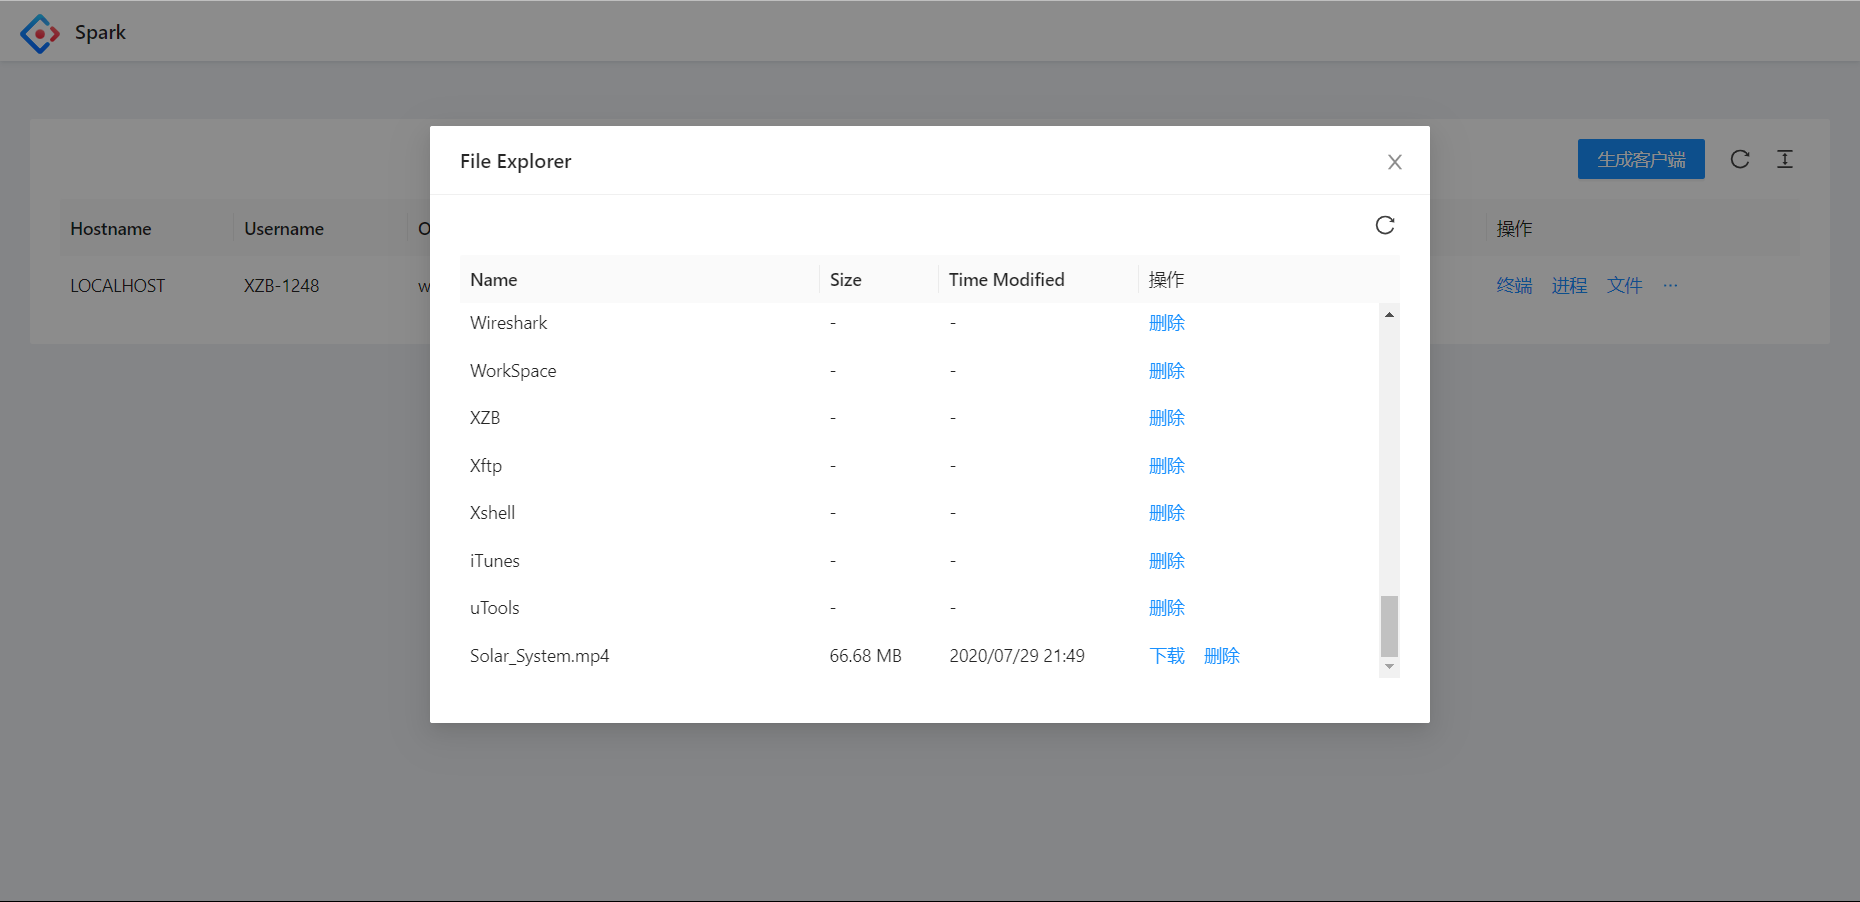
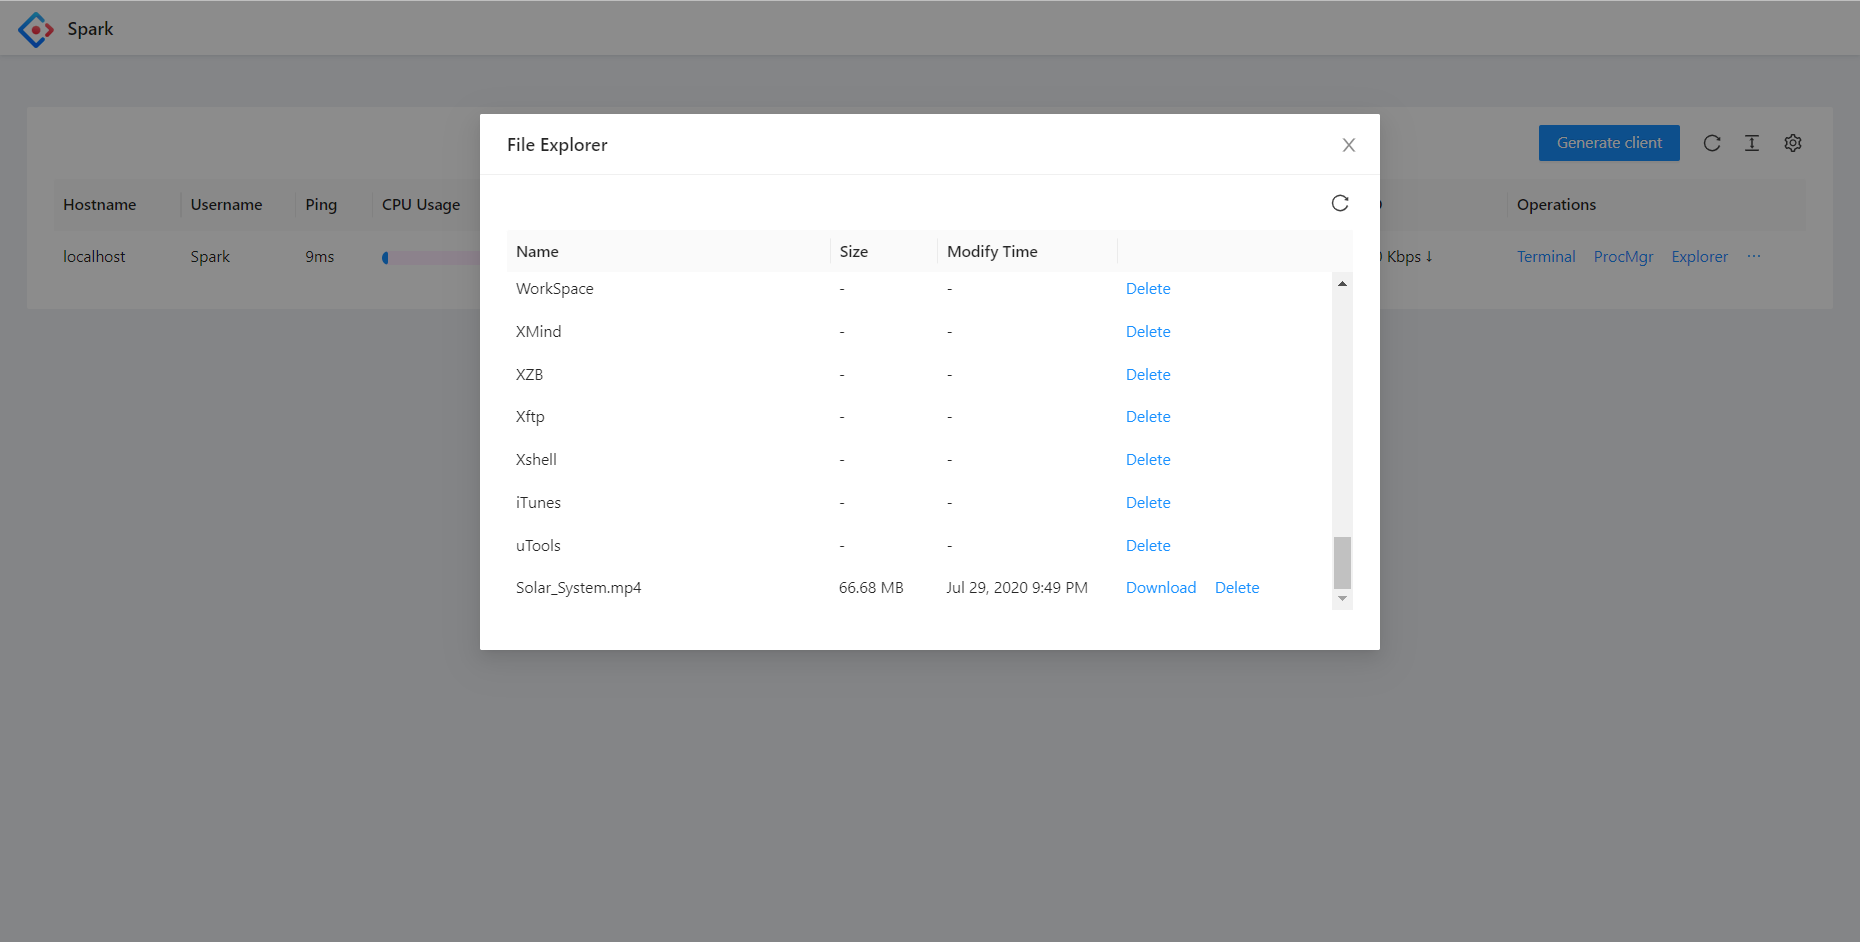
update i18n and README.md

diff --git a/web/src/utils/utils.js b/web/src/utils/utils.js
@@ -36,7 +36,7 @@ function tsToTime(ts) {
     let hours = Math.floor(ts / 3600);
     ts %= 3600;
     let minutes = Math.floor(ts / 60);
-    return `${String(hours) + i18n.t('hours') + String(minutes) + i18n.t('minutes')}`;
+    return `${String(hours) + i18n.t('hours') + ' ' + String(minutes) + i18n.t('minutes')}`;
 }
 
 function post(url, data, ext) {

diff --git a/client/service/basic/basic_others.go b/client/service/basic/basic_others.go
@@ -1,5 +1,5 @@
-// +build !linux
-// +build !windows
+//go:build !linux && !windows
+// +build !linux,!windows
 
 package basic
 
@@ -9,25 +9,25 @@ func init() {
 }
 
 func Lock() error {
-	return errors.New(`the operation is not supported`)
+	return errors.New(`${i18n|operationNotSupported}`)
 }
 
 func Logoff() error {
-	return errors.New(`the operation is not supported`)
+	return errors.New(`${i18n|operationNotSupported}`)
 }
 
 func Hibernate() error {
-	return errors.New(`the operation is not supported`)
+	return errors.New(`${i18n|operationNotSupported}`)
 }
 
 func Suspend() error {
-	return errors.New(`the operation is not supported`)
+	return errors.New(`${i18n|operationNotSupported}`)
 }
 
 func Restart() error {
-	return errors.New(`the operation is not supported`)
+	return errors.New(`${i18n|operationNotSupported}`)
 }
 
 func Shutdown() error {
-	return errors.New(`the operation is not supported`)
+	return errors.New(`${i18n|operationNotSupported}`)
 }

diff --git a/client/service/basic/basic_linux.go b/client/service/basic/basic_linux.go
@@ -1,3 +1,4 @@
+//go:build linux
 // +build linux
 
 package basic
@@ -11,21 +12,19 @@ func init() {
 }
 
 func Lock() error {
-	return errors.New(`the operation is not supported`)
+	return errors.New(`${i18n|operationNotSupported}`)
 }
 
 func Logoff() error {
-	return errors.New(`the operation is not supported`)
+	return errors.New(`${i18n|operationNotSupported}`)
 }
 
 func Hibernate() error {
-	_, _, err := syscall.Syscall(syscall.SYS_REBOOT, syscall.LINUX_REBOOT_CMD_HALT, 0, 0)
-	return err
+	return syscall.Reboot(syscall.LINUX_REBOOT_CMD_HALT)
 }
 
 func Suspend() error {
-	_, _, err := syscall.Syscall(syscall.SYS_REBOOT, syscall.LINUX_REBOOT_CMD_SW_SUSPEND, 0, 0)
-	return err
+	return syscall.Reboot(syscall.LINUX_REBOOT_CMD_SW_SUSPEND)
 }
 
 func Restart() error {

diff --git a/client/core/core.go b/client/core/core.go
@@ -111,7 +111,7 @@ func reportWS(wsConn *common.Conn) error {
 		return err
 	}
 	if pack.Code != 0 {
-		return errors.New(`unknown error occurred`)
+		return errors.New(`${i18n|unknownError}`)
 	}
 	return nil
 }
@@ -131,7 +131,7 @@ func checkUpdate(wsConn *common.Conn) error {
 		return err
 	}
 	if resp == nil {
-		return errors.New(`unknown error occurred`)
+		return errors.New(`${i18n|unknownError}`)
 	}
 	if resp.GetContentType() == `application/octet-stream` {
 		body := resp.Bytes()

diff --git a/client/service/file/file.go b/client/service/file/file.go
@@ -59,7 +59,7 @@ func UploadFile(path, trigger string, start, end int64) error {
 		`FileSize`: strconv.FormatInt(size, 10),
 	}
 	if size < end {
-		return errors.New(`Invalid file size.`)
+		return errors.New(`${i18n|invalidFileSize}`)
 	}
 	if end == 0 {
 		uploadReq.RawRequest.ContentLength = size - start

diff --git a/client/service/screenshot/supported.go b/client/service/screenshot/supported.go
@@ -13,7 +13,7 @@ func GetScreenshot(trigger string) error {
 	writer := new(bytes.Buffer)
 	num := screenshot.NumActiveDisplays()
 	if num == 0 {
-		err := errors.New(`no display found`)
+		err := errors.New(`${i18n|noDisplayFound}`)
 		putScreenshot(trigger, err.Error(), nil)
 		return err
 	}

diff --git a/README.ZH.md b/README.ZH.md
@@ -51,8 +51,8 @@
 | 屏幕快照  | ✔       | ✔     | ✔     |
 | 关机    | ✔       | ✔     | ❌     |
 | 重启    | ✔       | ✔     | ❌     |
-| 休眠    | ✔       |       | ❌     |
-| 睡眠    | ✔       |       | ❌     |
+| 休眠    | ✔       | ❌     | ❌     |
+| 睡眠    | ✔       | ❌     | ❌     |
 | 注销    | ✔       | ❌     | ❌     |
 | 锁屏    | ✔       | ❌     | ❌     |
 
@@ -117,13 +117,13 @@ $ ./build.server.sh
 
 ## 截图
 
-![overview](./screenshots/overview.png)
+![overview](./screenshots/overview.ZH.png)
 
-![terminal](./screenshots/terminal.png)
+![terminal](./screenshots/terminal.ZH.png)
 
-![procmgr](./screenshots/procmgr.png)
+![procmgr](./screenshots/procmgr.ZH.png)
 
-![explorer](./screenshots/explorer.png)
+![explorer](./screenshots/explorer.ZH.png)
 
 ---
 

diff --git a/README.md b/README.md
@@ -45,8 +45,8 @@ Only local installation are available yet.
 | Screenshot      | ✔       | ✔     | ✔     |
 | Shutdown        | ✔       | ✔     | ❌     |
 | Reboot          | ✔       | ✔     | ❌     |
-| Hibernate       | ✔       |       | ❌     |
-| Sleep           | ✔       |       | ❌     |
+| Hibernate       | ✔       | ❌     | ❌     |
+| Sleep           | ✔       | ❌     | ❌     |
 | Log off         | ✔       | ❌     | ❌     |
 | Lock screen     | ✔       | ❌     | ❌     |
 
